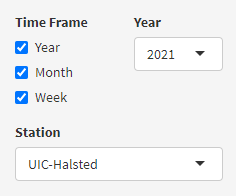
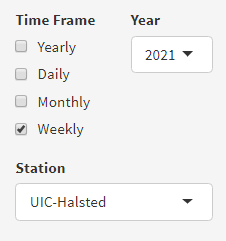
Changed screenshots, descriptions and youtube link.

diff --git a/index.html b/index.html
@@ -235,6 +235,7 @@
                                     <p class="mb-5">This is the first project in CS 424: Data Analysis and Visualization class.
                                         The primary intention for creating this visualization is to display ridership data for the
                                         CTA Train network for each station and years ranging from 2001 to 2021 in an easy-to-understand fashion.
+                                        This visualization is designed to run on a Touch-Screen wall at UIC with a ratio of 5,760 by 3,240 as per the assignment requirement.
                                         This project uses R as the main language, the following packages (shiny, shinydashboard, lubridate, scales, ggplot2, DT, tidyr) to preprocess, manipulate,
                                         and plot the data, RStudio as the primary development environment, and ShinyApps.io as the preferred location for the deployment of the app.</p>
 
@@ -242,22 +243,23 @@
 
                                     <img class="img-fluid d-block mx-auto" src="assets/img/project1/Screenshot_p1_2.png" alt="..." style="float: left; padding-right: 30px;"/>
                                     <p class="mb-5" style="text-align: justify;">In this visualization, the data is displayed in a variety of bar graphs and data tables.
-                                        On the left, there are four menu options to chose from. "About" give a brief introduction to the project.
-                                        "Graph and Table" takes you to the body that shows plots on the top portion and corresponding data for the plot in a table.
+                                        On the left, there are three menu options to chose from. "About" give a brief introduction to the project.
+                                        "Graphs and Tables" takes you to the body that is split into two displays.
+                                        Each portion of the display shows plots and corresponding data for the plot in a table.
+                                        They have their own set of controls so that you can manipulate two groups of graphs independently
                                         Here you can specify what pair of graph and table you want to display together.
-                                        You can choose to display data about each day in the year, each month in a year, or each day of the week in a year.
-                                        "Two Graphs" takes you to the body that shows a variety of plots on top and bottom with independent controls for both portions.
-                                        Here you can have the same set of controls, but they manipulate two groups of graphs independently.
+                                        You can choose to display data in the form of yearly data for every year, each day in the year, each month in a year, and/or each day of the week in a year.
                                         "Interesting insights" sets the control to point you towards an insight with a brief description regarding the insight.
-                                        For each group of plots, there are three types of control to customize how you would like to see that data. </p>
+                                        For each group of plots, there are four types of control to customize how you would like to see that data. </p>
 
                                     <img class="img-fluid d-block mx-auto" src="assets/img/project1/Screenshot_p1_1.png" alt="..." style="float: right; padding-left: 30px;"/>
                                     <p class="mb-5" style="text-align: justify;">The first thing you can do is control the time frame that you would like to hone in on.
-                                        For the time frame, there are three controls: Year, Month, and Week.
+                                        For the time frame, there are four controls: Yearly, Daily, Monthly, and Weekly.
                                         These controls can be selected and deselected in any combination to show the corresponding graph.
-                                        When "Year" is selected in Time Frame, the graph is shown for the range of time selected, whether that be one year or every year.
-                                        When "Month" is selected in Time Frame, the graph is shown to display data about the month for the selected time range, whether that be one year or every year.
-                                        When "Week" is selected in Time Frame, the graph is shown to display data about each day of the week for the selected time range, whether that be one year or every year.
+                                        When "Yearly" is selected in Time Frame, the graph shows sum of data for each year in one bar plot.
+                                        When "Daily" is selected in Time Frame, the graph is shown for the range of time selected, whether that be one year or every year.
+                                        When "Monthly" is selected in Time Frame, the graph is shown to display data about the month for the selected time range, whether that be one year or every year.
+                                        When "Weekly" is selected in Time Frame, the graph is shown to display data about each day of the week for the selected time range, whether that be one year or every year.
                                         The second thing you can do is select a year to populate data about a single year for the selected station(s).
                                         Furthermore, you can pick "Every" if you would like to see data from every year.
                                         The third thing you can do with controls is filter data by following three stations: UIC-Halsted, O'Hare Airport, and Rosemont.
@@ -324,13 +326,13 @@
                                             </div>
                                             <div class="carousel-item">
                                                 <img class="d-block w-100 rounded" src="assets/img/project1/Screenshot_p1_insight4.png" alt="Forth slide">
-                                                 <div class="carousel-caption d-none d-md-block" style="text-align: start;">
+                                                 <div class="carousel-caption d-none d-md-block" style="text-align: center;">
                                                     <h5>Insight 4</h5>
                                                 </div>
                                             </div>
                                             <div class="carousel-item">
                                                 <img class="d-block w-100 rounded" src="assets/img/project1/Screenshot_p1_insight5.png" alt="Fifth slide">
-                                                 <div class="carousel-caption d-none d-md-block" style="text-align: start;">
+                                                 <div class="carousel-caption d-none d-md-block" style="text-align: center;">
                                                     <h5>Insight 5</h5>
                                                 </div>
                                             </div>
@@ -348,7 +350,7 @@
                                             </div>
                                             <div class="carousel-item">
                                                 <img class="d-block w-100 rounded" src="assets/img/project1/Screenshot_p1_insight8.png" alt="Eighth slide">
-                                                 <div class="carousel-caption d-none d-md-block" style="text-align: start;">
+                                                 <div class="carousel-caption d-none d-md-block" style="text-align: center;">
                                                     <h5>Insight 8</h5>
                                                 </div>
                                             </div>
@@ -360,7 +362,7 @@
                                             </div>
                                             <div class="carousel-item">
                                                 <img class="d-block w-100 rounded" src="assets/img/project1/Screenshot_p1_insight10.png" alt="Tenth slide">
-                                                <div class="carousel-caption d-none d-md-block" style="text-align: start;">
+                                                <div class="carousel-caption d-none d-md-block" style="text-align: center;">
                                                     <h5>Insight 10</h5>
                                                 </div>
                                             </div>
@@ -418,7 +420,7 @@
                                         <a class="btn btn-primary" href="https://akashmagnadia.shinyapps.io/cs424_p1/" target="_blank" rel="noopener noreferrer">
                                             <i class="fas fa-desktop"></i>   Visualization
                                         </a>
-                                        <a class="btn btn-primary" href="https://youtu.be/jRgdrzKlQ3U" target="_blank" rel="noopener noreferrer">
+                                        <a class="btn btn-primary" href="https://youtu.be/AOJ_1KxXsQc" target="_blank" rel="noopener noreferrer">
                                             <i class="fab fa-youtube"></i>   Video walk-through
                                         </a>
                                     </div>
